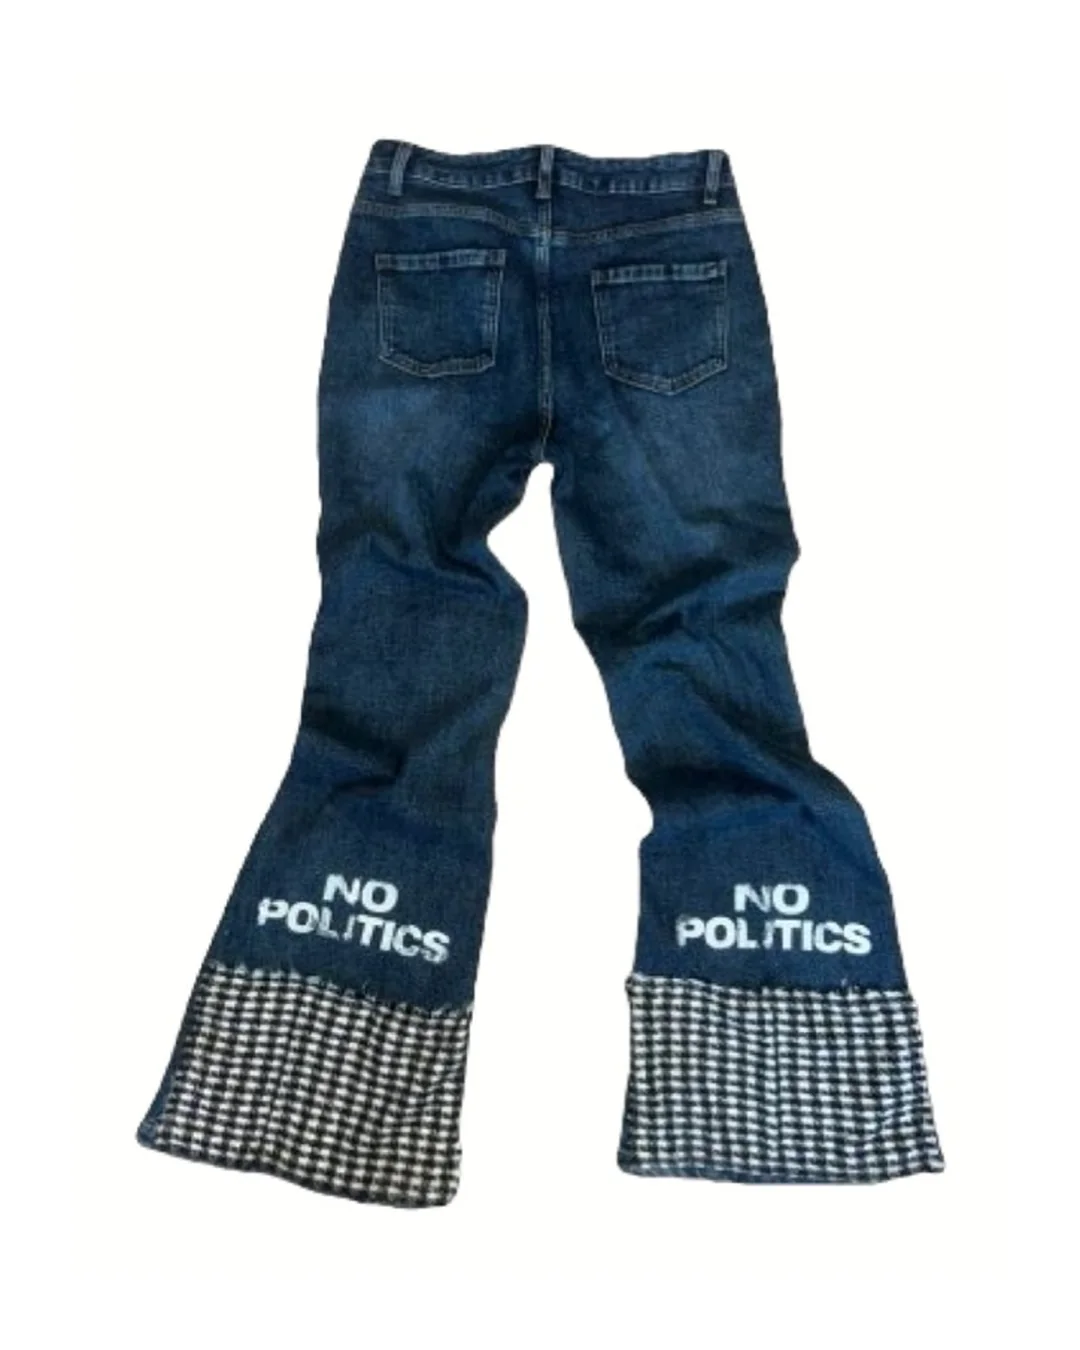
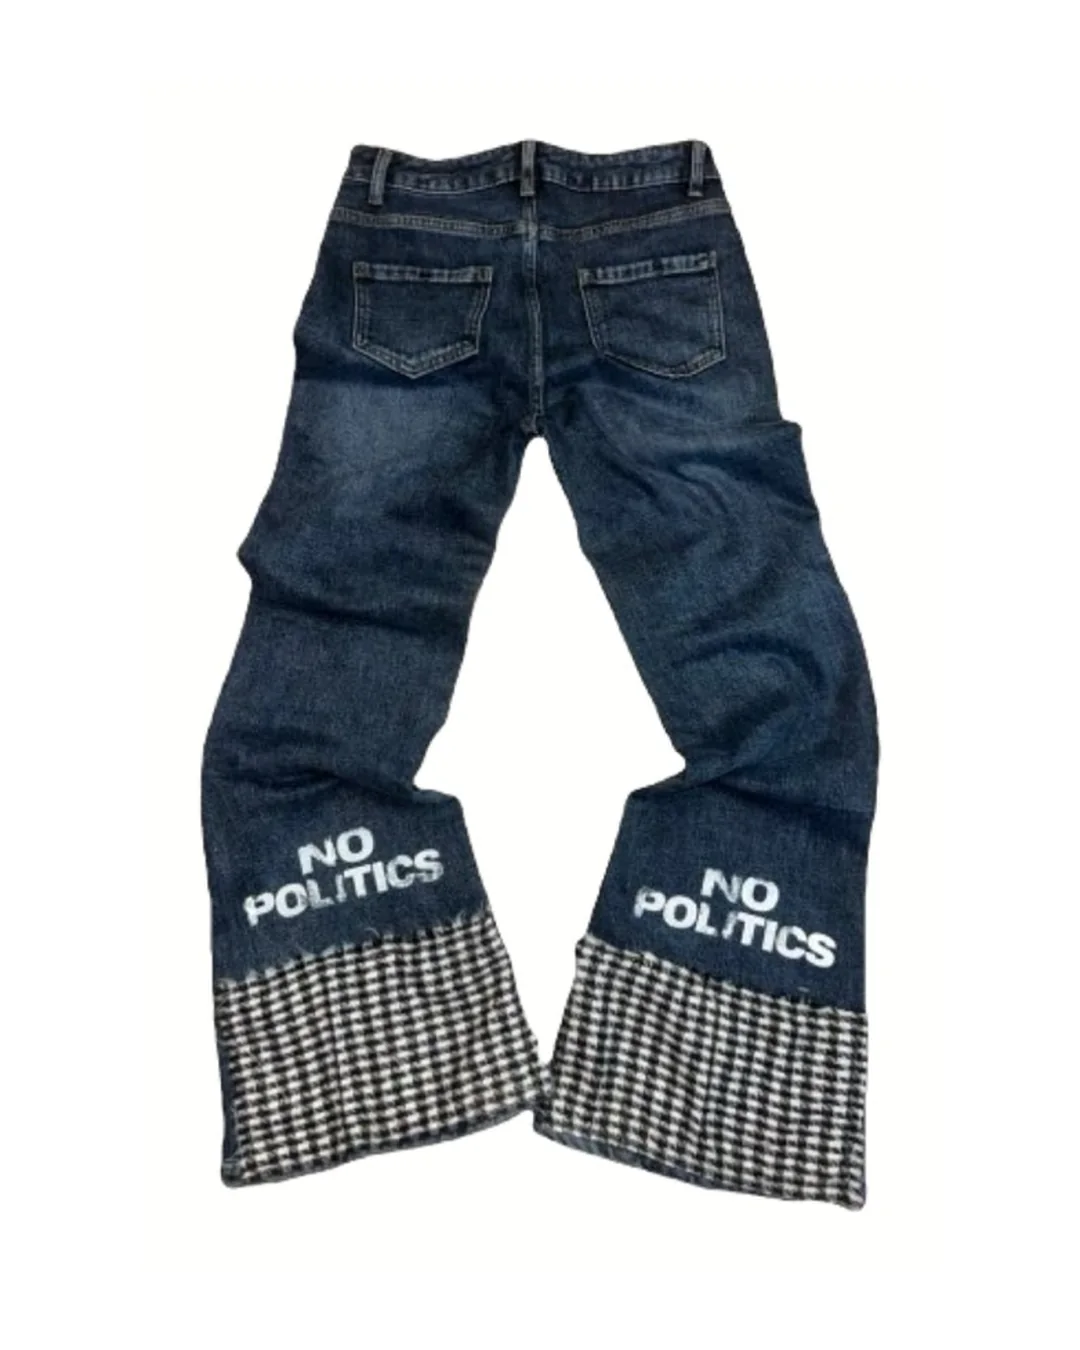
Replace jeans photos
Use the new front and back shots, cropped like the other items, and
version their URLs so browsers drop the cached old images.

Changed region(s): [[0.1222, 0.0933, 0.8861, 0.9022]]

diff --git a/index.html b/index.html
@@ -441,7 +441,7 @@ const PRODUCTS = [
     soldOut: [],
     tag: "",
     colors: ["Синий"],
-    photos: ["assets/items/jeans-blue-1.webp", "assets/items/jeans-blue-2.webp"],
+    photos: ["assets/items/jeans-blue-1.webp?v=2", "assets/items/jeans-blue-2.webp?v=2"],
     desc: "",
     specs: []
   },
